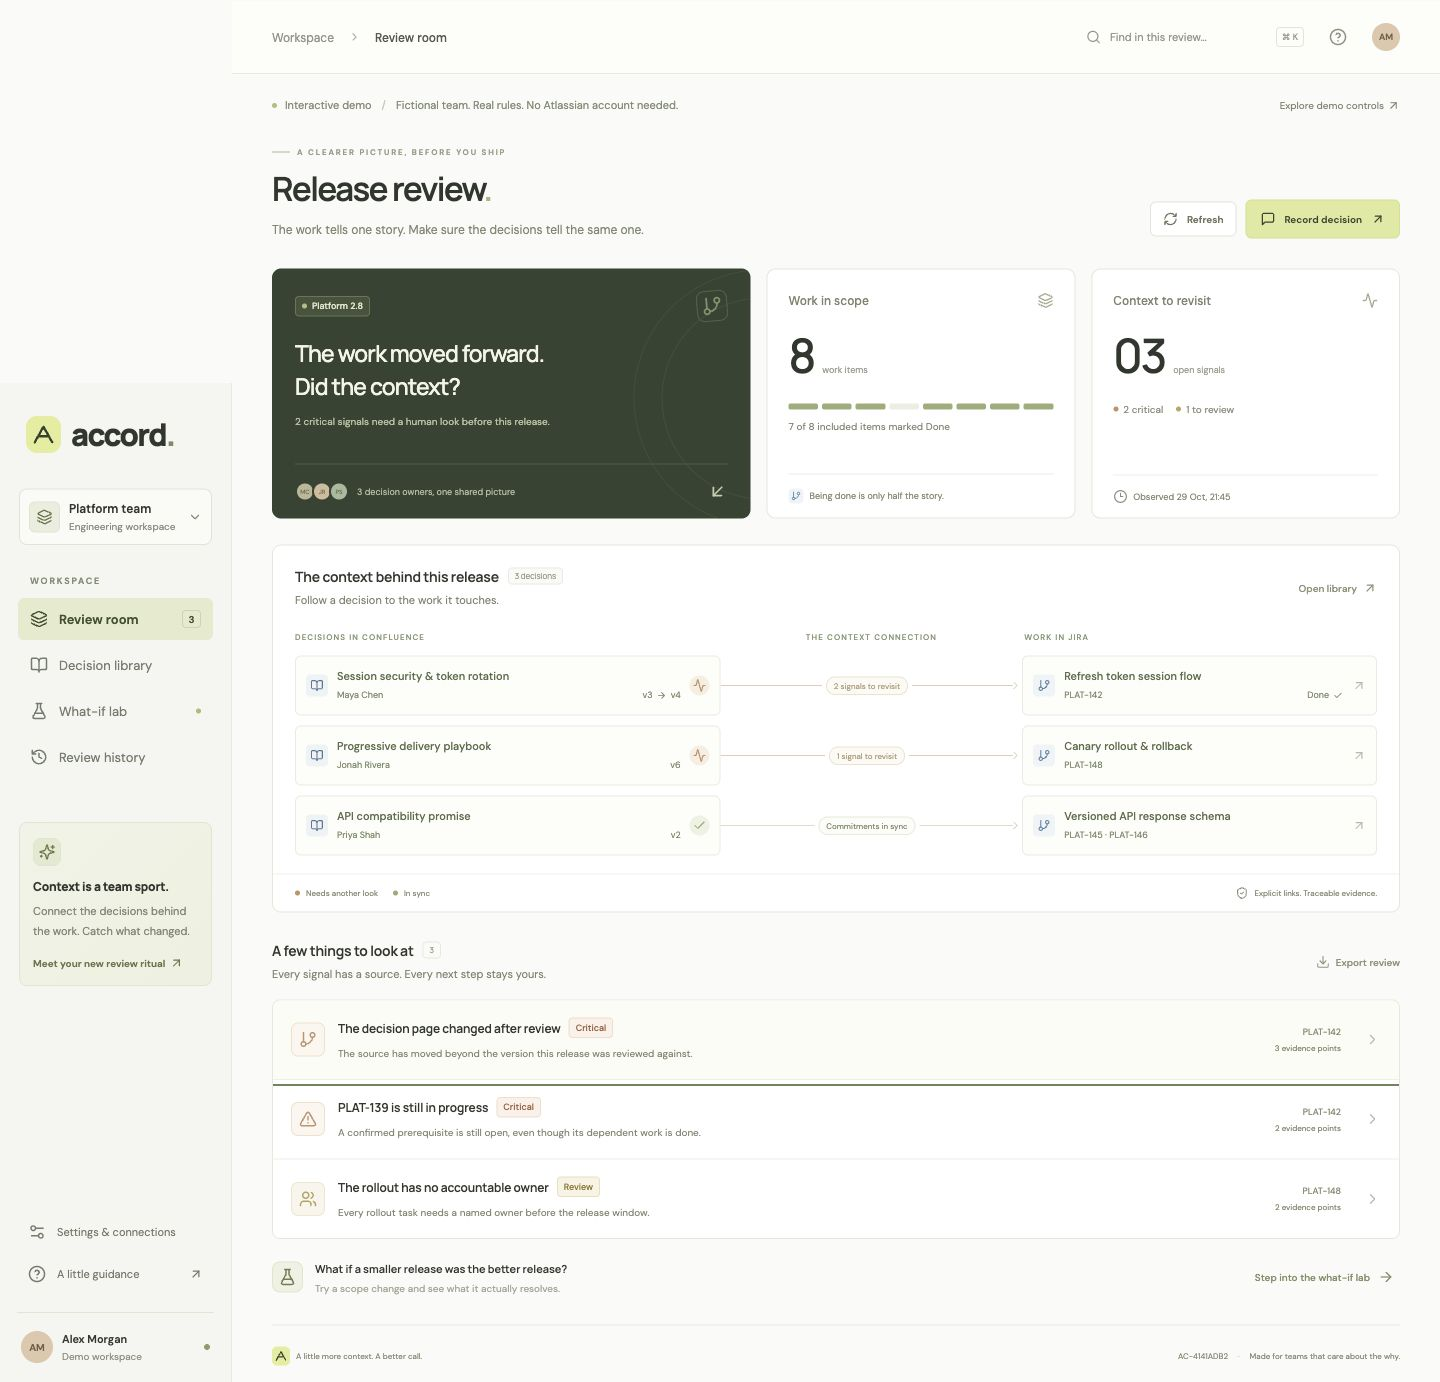
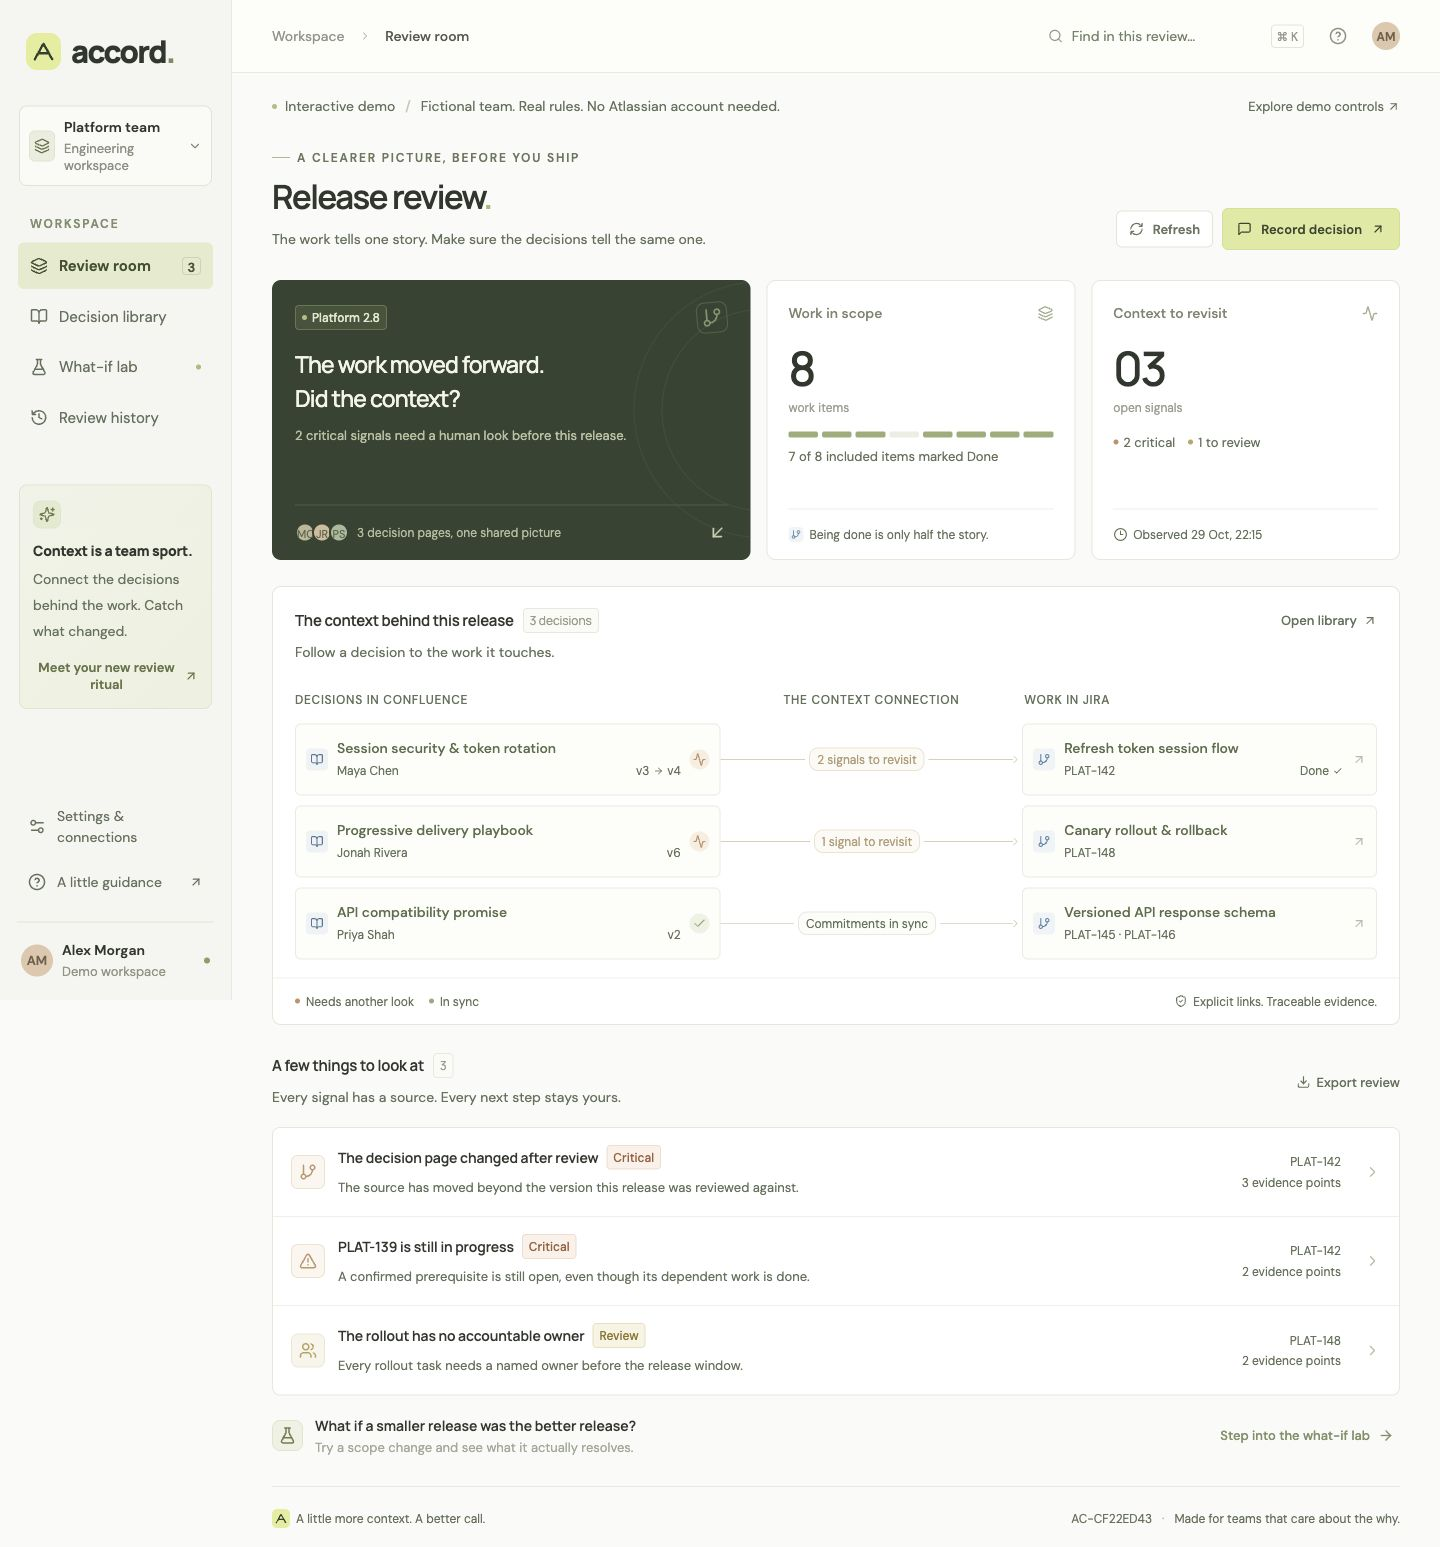
docs: update walkthroughs and tenant verification guidance
Explain source adoption, structured history and retry limits, the contract builder and deployment doctor. Refresh demo screenshots with the larger typography and record the verified 44-test suite.

diff --git a/docs/verification.md b/docs/verification.md
@@ -5,11 +5,9 @@ Date: 29 October 2026, Asia/Ho_Chi_Minh.
 ## Automated checks
 
 `npm run check` runs TypeScript, Vitest, Vite production build and Atlassian's
-installed local manifest validators. Tests cover meaningful behavior, including:
-
-The current suite contains **26 passing tests** in four files. The staged-file
+installed local manifest validators. The current suite contains **44 passing tests** in six files. The staged-file
 guard is also exercised in disposable Git repositories, including a staged secret
-whose working copy has already been cleaned.
+whose working copy has already been cleaned. Coverage includes:
 
 - Done work still affected by a changed decision page and open prerequisite.
 - Scenario isolation and prerequisites outside fixVersion.
@@ -22,6 +20,11 @@ whose working copy has already been cleaned.
 - No source text copied into Jira configuration properties.
 - Rejected stale review without a comment mutation.
 - A current explicit review producing the expected Jira comment payload.
+- Dedicated comment-property reads, shared history pagination and retry recovery.
+- Rejected reuse of a request ID with changed content; bounded, fail-closed lookups.
+- Source-field diffs and adoption leaving unrelated signals open.
+- Read-only agent change inspection rejecting inaccessible/unselected pages.
+- Code-block generation and parsing with literal CDATA terminators.
 
 Product-adapter tests mock Atlassian HTTP responses. They validate application
 logic, not actual Atlassian scopes, network behavior or installation.
@@ -30,16 +33,23 @@ logic, not actual Atlassian scopes, network behavior or installation.
 
 The local interface was exercised through the in-app browser:
 
-| Flow                  | Expected behavior                                                    |
-| --------------------- | -------------------------------------------------------------------- |
-| Initial review        | 8 scope items, 2 critical signals, 1 ownership warning               |
-| Smallest deferral     | PLAT-142 deferred; 7 items and only ownership warning remain         |
-| Return to review      | Scenario explicitly labelled; decision recording disabled            |
-| Restore current scope | All 3 signals return                                                 |
-| Human review          | Explanation and confirmation required before saving                  |
-| Review history        | Local record includes actor, rationale, snapshot label and 3 signals |
-| Settings controls     | Changes to fictional sources cause rules to recompute                |
-| Mobile layout         | Navigation and scope controls remain usable without page overflow    |
+Captured screens: [review room](images/accord-review.jpg),
+[contract builder](images/accord-contract-builder.jpg), and
+[source re-review](images/accord-source-review.jpg).
+
+| Flow                  | Expected behavior                                                              |
+| --------------------- | ------------------------------------------------------------------------------ |
+| Initial review        | 8 scope items, 2 critical signals, 1 ownership warning                         |
+| Smallest deferral     | PLAT-142 deferred; 7 items and only ownership warning remain                   |
+| Return to review      | Scenario explicitly labelled; decision recording disabled                      |
+| Restore current scope | All 3 signals return                                                           |
+| Human review          | Explanation and confirmation required before saving                            |
+| Review history        | Local record includes actor, rationale, snapshot label and 3 signals           |
+| Settings controls     | New fictional source versions and issue changes recompute rules                |
+| Contract builder      | A filled template creates validated JSON and a working demo-library entry      |
+| Source re-review      | Adoption clears the version signal while prerequisite and owner signals remain |
+| Larger typography     | Main text and metadata use larger sizes; light-surface contrast increased      |
+| Mobile layout         | Navigation and scope controls remain usable without page overflow              |
 
 See the repository history for the implementation corresponding to this record.
 No measured customer savings, model accuracy, adoption or release risk reduction

diff --git a/README.md b/README.md
@@ -37,21 +37,37 @@ The demo persists evidence changes and review records in this browser only.
 
 ## What is implemented
 
-| Capability                              | Local demo                | Forge implementation                                             |
-| --------------------------------------- | ------------------------- | ---------------------------------------------------------------- |
-| Decision version and commitment checks  | Working                   | Jira/Confluence REST adapters                                    |
-| Evidence map, source inspector, library | Working                   | Same Custom UI                                                   |
-| Reversible scope scenarios              | Working                   | Same deterministic evaluator                                     |
-| Minimum-cost deferral search            | Working, weighted fixture | Uniform item cost; up to 15 scope items                          |
-| Human decision record                   | Browser storage           | User-authored Jira comment after fresh evidence comparison       |
-| Rovo agent and three read-only actions  | Not simulated             | Declared and implemented; tenant verification pending            |
-| Atlassian MCP tools                     | Not simulated             | `rovo:mcp` reuses the three actions; tenant verification pending |
+| Capability                              | Local demo                | Forge implementation                                            |
+| --------------------------------------- | ------------------------- | --------------------------------------------------------------- |
+| Decision version and commitment checks  | Working                   | Jira/Confluence REST adapters                                   |
+| Evidence map, source inspector, library | Working                   | Same Custom UI                                                  |
+| Reversible scope scenarios              | Working                   | Same deterministic evaluator                                    |
+| Minimum-cost deferral search            | Working, weighted fixture | Uniform item cost; up to 15 scope items                         |
+| Human decision record                   | Browser storage           | User-authored Jira comment after fresh evidence comparison      |
+| Rovo agent and four read-only actions   | Not simulated             | Declared and implemented; tenant verification pending           |
+| Atlassian MCP tools                     | Not simulated             | `rovo:mcp` reuses the four actions; tenant verification pending |
 
 **Deployment status:** local build, unit/adapter tests and Atlassian's installed
 manifest validators pass. This repository has not yet been registered, deployed
 or installed on an Atlassian tenant. The manifest has a documented placeholder
 app ID. Authenticated `forge lint`, installation, cross-product permissions,
 Rovo and MCP need verification on a developer site. See [setup](docs/setup.md).
+
+## Review the change, not just the warning
+
+Use **Compare & review this decision** from an edited source. Accord shows source
+excerpts and explicit contract fields before and after, including added/removed
+commitments and applicability changes. A confirmed re-review adopts only that
+page's current version; other prerequisite and owner signals remain open.
+
+**Settings → Build a decision contract** provides editable templates, a validated
+JSON preview, copy/download, and a local demo-library action. No Confluence page
+is created without a real tenant. Teams still confirm the meaning of each rule.
+
+Live **Review history** reads paginated Jira comments and their structured Accord
+metadata as the current user. A retry identifier recovers an already recorded
+comment after an ambiguous response; concurrent requests are not guaranteed
+exactly-once. `npm run doctor` explains which tenant prerequisites remain.
 
 ## Architecture
 

diff --git a/docs/architecture.md b/docs/architecture.md
@@ -81,9 +81,15 @@ own rationale before sharing it. Comments are mutable under Jira permissions.
 They are not tamper-proof signatures, an approval policy, or compliance evidence.
 
 Jira and Confluence do not share an atomic transaction with the comment write.
-Evidence can change after the final check, and a network retry can create a second
-comment. The UI disables repeated submissions while the request is in progress;
-it does not promise exactly-once delivery across retries or clients. The record
+Evidence can change after the final check. Each review request carries a UUID;
+the comment and structured metadata are created in one API request. Before a
+retry, the backend checks up to 100 recent visible comments for that UUID and
+returns an existing matching record. Different content under the same UUID is
+rejected. An unreadable or malformed history, or a lookup that reaches its bound,
+prevents a new write. The UI keeps the UUID during an open review and disables
+repeated submissions while saving. This reduces duplicates after an ambiguous
+network response; concurrent requests and eventual consistency still prevent an
+exactly-once guarantee across clients. The record
 describes what was observed, not a lock on the release.
 
 ## Operational bounds
@@ -97,3 +103,25 @@ describes what was observed, not a lock on the release.
 
 The application is not a Teamwork Graph integration. Rovo/MCP modules reuse the
 same product adapters and evaluator; see [agents](agents.md).
+
+## Source re-review and shared history
+
+Source comparison displays changes in title, owner, rationale, explicit issue
+applicability and individually identified rules. It does not interpret arbitrary
+page prose or label a change semantically safe. Confirmation re-reads the observed
+snapshot, adopts only the selected page version and preserves other baselines.
+The Jira configuration retains up to 50 adoption metadata entries (IDs, version
+numbers, time and caller ID), without source excerpts. Initial reconfiguration
+replaces this configuration; these are editable metadata, not an immutable audit.
+
+History follows visible Jira comments in pages of 20. Structured Accord properties
+are read through the dedicated comment-property API when not returned inline,
+with at most five concurrent reads. A missing property identifies a non-Accord
+comment; permission and network failures surface as errors. Comment bodies and
+properties are editable under Jira permissions, can be changed independently, and
+are not cryptographic attestations. Older comments without Accord metadata do not
+appear as structured review records. Refresh again if new comments shift offset
+pagination while reading older pages.
+
+API reference: [Jira comments](https://developer.atlassian.com/cloud/jira/platform/rest/v3/api-group-issue-comments/)
+and [comment properties](https://developer.atlassian.com/cloud/jira/platform/rest/v3/api-group-issue-comment-properties/).

diff --git a/docs/contracts.md b/docs/contracts.md
@@ -5,7 +5,9 @@ selects a Confluence page with exactly one JSON code block, then explicitly adop
 the current page version as a release baseline. Baseline adoption requires edit
 permission on the Jira review issue and read permission on the selected pages.
 
-Create a normal Confluence **Code block**, paste the JSON below and publish the
+Use **Settings → Build a decision contract** for an editable template and validated
+JSON preview. Copy or download it, then create a normal Confluence **Code block**,
+paste the JSON and publish the
 page. The parser reads its storage-format CDATA body. Multiple candidate blocks,
 invalid JSON, unknown fields, duplicate rule IDs and oversized pages are rejected.
 
@@ -68,10 +70,11 @@ Examples for the additional rule types:
 1. Configure the release and adopt the page at version N in Accord Settings.
 2. Edit and publish the Confluence page to version N+1.
 3. Refresh Accord. Applicable scope receives a page-changed signal.
-4. Inspect the current and reviewed evidence. Changed rationale is shown, but the
-   app does not produce a full textual diff or classify semantic contradictions.
-5. After a human review, Settings can explicitly adopt the new baseline. This
-   replaces the shared configuration on the review issue; it does not happen when
+4. Inspect the current and reviewed evidence. The app shows explicit contract-field
+   differences and rationale excerpts, rather than a full page diff or a semantic verdict.
+5. Use **Compare & review this decision** to inspect field changes and explicitly
+   adopt the selected page’s new baseline after confirmation. This
+   updates only that page’s reviewed version and preserves other baselines; it does not happen when
    a comment is recorded.
 
 The rules for a review come from the **reviewed historical version**. The app does

diff --git a/docs/setup.md b/docs/setup.md
@@ -5,6 +5,7 @@
 ```sh
 npm ci
 npm run setup:hooks
+npm run doctor
 npm run dev
 ```
 
@@ -56,7 +57,8 @@ site; cross-site Confluence sources are not supported.
 2. Create a separate Jira task to hold the review configuration and comments.
 3. Create a prerequisite task, initially In progress, which need not be in the
    release. Mark its dependent scope task Done.
-4. Create a Confluence decision page containing the [JSON contract](contracts.md).
+4. Use Settings’ contract builder, then create a Confluence decision page containing
+   the [JSON contract](contracts.md).
    Use actual created issue keys; the fictional PLAT keys are not automatic seeds.
 5. Open **Jira → Apps → Accord → Settings**. Enter the project, version, review
    issue, target date and numeric Confluence page IDs.
@@ -91,3 +93,7 @@ products, setup steps, sample contracts and expected outcomes to reviewers.
 Do not submit a localhost URL as the Forge installation link. Production deploy,
 sharing, Marketplace listing and Devpost submission have not been performed by
 this initial local implementation.
+
+`npm run doctor -- --require-live` exits unsuccessfully when the app ID is still a
+placeholder or Forge login is unavailable. Normal `doctor` also works before
+registration and prints next steps without exposing account details or tokens.

diff --git a/docs/agents.md b/docs/agents.md
@@ -1,6 +1,6 @@
 # Rovo agent and Atlassian MCP
 
-The manifest defines a Rovo agent and exposes three existing Forge actions via
+The manifest defines a Rovo agent and exposes four existing Forge actions via
 `rovo:mcp`. Both use the same source service and deterministic evaluator as the
 Custom UI. There is no separate external MCP server or client-side API secret.
 
@@ -9,6 +9,10 @@ Custom UI. There is no separate external MCP server or client-side API secret.
 | `inspect-release` | `anchorIssue`                                 | Current assessment, evidence, scope and snapshot label               |
 | `simulate-scope`  | `anchorIssue`, comma-separated `excludedKeys` | Recomputed hypothetical assessment; explicitly labelled as simulated |
 | `suggest-scope`   | `anchorIssue`                                 | Minimum-cost qualifying deferral, or null if unavailable             |
+
+`decision-change` takes `anchorIssue` and a selected numeric `pageId`. It returns
+reviewed/current versions, source excerpts and structured contract differences.
+Unreadable or unselected sources are rejected. It cannot adopt a new baseline.
 
 All actions declare `actionVerb: GET`, call product APIs as the user, and are
 read-only. They cannot save a baseline, write comments, edit Jira, or approve a
